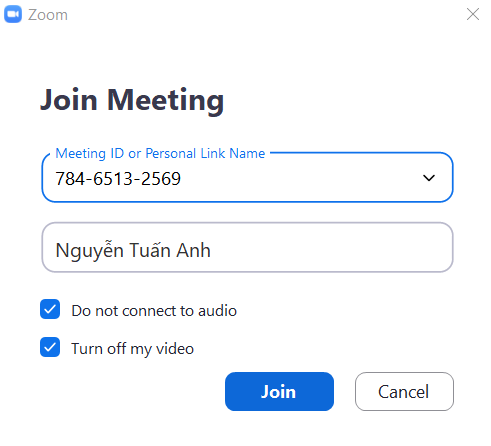
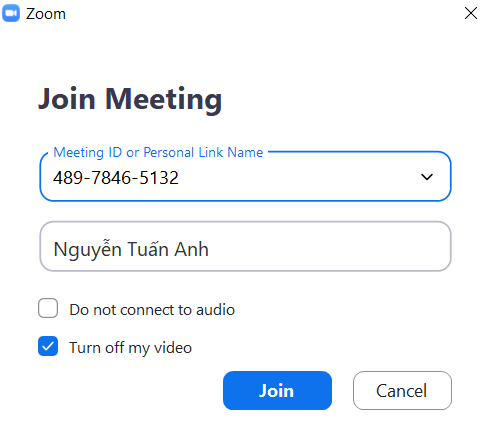
OK Binz

diff --git a/index.html b/index.html
@@ -1,167 +1,60 @@
 <!DOCTYPE html>
-<!--
-	ustora by freshdesignweb.com
-	Twitter: https://twitter.com/freshdesignweb
-	URL: https://www.freshdesignweb.com/ustora/
--->
 <html lang="en">
-  <head>
-    <meta charset="utf-8">
-    <meta http-equiv="X-UA-Compatible" content="IE=edge">
-    <meta name="viewport" content="width=device-width, initial-scale=1">
-    <title>TA7 Entertaiment</title>
-    
-    <!-- Google Fonts -->
-    <link href='http://fonts.googleapis.com/css?family=Titillium+Web:400,200,300,700,600' rel='stylesheet' type='text/css'>
-    <link href='http://fonts.googleapis.com/css?family=Roboto+Condensed:400,700,300' rel='stylesheet' type='text/css'>
-    <link href='http://fonts.googleapis.com/css?family=Raleway:400,100' rel='stylesheet' type='text/css'>
-    
-    <!-- Bootstrap -->
-    <!-- <link rel="stylesheet" href="css/bootstrap.min.css"> -->
-    <link rel="stylesheet" href="https://maxcdn.bootstrapcdn.com/bootstrap/4.0.0/css/bootstrap.min.css" integrity="sha384-Gn5384xqQ1aoWXA+058RXPxPg6fy4IWvTNh0E263XmFcJlSAwiGgFAW/dAiS6JXm" crossorigin="anonymous">
-    
+<head>
+	<meta charset="UTF-8">
+	<meta name="viewport" content="width=device-width, initial-scale=1">
+	<title>Home</title>
+    <link rel="stylesheet" href="css/bootstrap.min.css">
     <!-- Font Awesome -->
     <link rel="stylesheet" href="css/font-awesome.min.css">
-    
-    <!-- Custom CSS -->
-    <link rel="stylesheet" href="css/owl.carousel.css">
-    <link rel="stylesheet" href="style.css">
-    <link rel="stylesheet" href="css/responsive.css">
     <link rel="stylesheet" href="css/1.css">
-
-    <!-- HTML5 shim and Respond.js for IE8 support of HTML5 elements and media queries -->
-    <!-- WARNING: Respond.js doesn't work if you view the page via file:// -->
-    <!--[if lt IE 9]>
-      <script src="https://oss.maxcdn.com/html5shiv/3.7.2/html5shiv.min.js"></script>
-      <script src="https://oss.maxcdn.com/respond/1.4.2/respond.min.js"></script>
-    <![endif]-->
-  </head>
-  <body>
-   
-    <div class="container text-center mb-3 pb-3 pt-3">
-        <h1>Hướng dẫn cài đặt zoom phục vụ học tập</h1>
-    </div>
-    
-    <div class="container">
-        <div class="buoc1 mb-3">
-            <strong>* Khởi động ứng dụng Zoom</strong> 
-            <br><br>
-            <img src="img/1.png" alt="">
-            <p class="text-center"><small>Hình 1: Giao diện ứng dụng Zoom</small></p>
-        </div>
-        <div class="pt-3">
-            <p>Ở đây chúng ta có 2 lựa chọn:</p>
-            <p><strong>Join a Meeting: </strong>Tham gia lớp học mà không cần đăng nhập.</p>
-            <p><strong>Sign In: </strong>Bắt buộc phải đăng nhập thì mới tham gia được lớp học.</p>
-            <p>Chúng ta có thể làm theo 1 trong 2 cách trên,để đơn giản chúng tôi khuyến khích phụ huynh và học sinh sử dụng cách 1.</p>
-        </div>
-
-        <div class="cach1 pt-2">
-            <h3>Cách 1: Join a Meeting (Đơn giản,khuyến khích sử dụng)</h4>
-            <p>Sau khi chọn <strong>Join a Meeting </strong>chúng ta sẽ thấy giao diện như sau</p>
-            <img src="img/2.png" alt="">
-            <p class="text-center"><small>Hình 2: Giao diện Join a Meeting</small></p>
-            <p><strong>Trong đó: </strong></p>
-            <p class="lui">1: Điền ID hoặc Link do giáo viên cung cấp (Bắt buộc).</p>
-            <p class="lui">2: Điền họ tên học sinh tham gia lớp học (Bắt buộc).</p>
-            <p class="lui">3: Tích vào tất cả các ô trống như trong hình (Bắt buộc).</p>
-
-            <div class="buoc1 mb-3">
-                <p><strong>Bước 1: </strong>Điền ID,tên học sinh và tích vào các ô trống như hình trên,sau đó bấm <strong>Join.</strong></p>
-                <img src="img/2.png" alt="">
-                <p class="text-center"><small>Hình 3: Click Join</small></p>
-            </div>
-            <div class="buoc2 mb-3">
-                <p><strong>Bước 2: </strong>Sau khi click "Join" sẽ xuất hiện giao diện như sau,phụ huynh/học sinh điền mật khẩu được giáo viên cung cấp sau đó ấn <strong>Join Meeting.</strong></p>
-                <img src="img/3.png" alt="">
-                <p class="text-center"><small>Hình 4: Điền mật khẩu sau đó bấm Join Meeting</small></p>
-            </div>
-            <div class="mb-3">
-                <p>Sau khi bấm <strong>Join Meeting</strong> hệ thống sẽ xuất hiện giao diện như sau.Đây là giao diện học sinh đang đợi giáo viên cho phép vào lớp</p>
-                <img src="img/4.png" alt="">
-                <p class="text-center"><small>Hình 5: Học sinh đợi giáo viên cho phép vào lớp</small></p>
-            </div>
-            <div class="mb-3">
-                <p>Sau khi được giáo viên chấp nhận tham gia lớp học,hệ thống sẽ tự động kết nối đưa học sinh tham gia lớp học.Thời gian nhanh hay chậm phụ thuộc vào tốc độ mạng của học sinh.</p>
-                <img src="img/5.png" alt="">
-                <p class="text-center"><small>Hình 6: Kết nối với lớp học</small></p>
-            </div>
-            <div class="buoc3 mb-3">
-                <p><strong>Bước 3: </strong>Sau đó giao diện xuất hiện như <strong>Hình 7.</strong>Phụ huynh/học sinh bấm vào <strong>Join with Computer Audio</strong> để tiến hành bật âm thanh nghe được giáo viên giảng.</p>
-                <img src="img/6.png" alt="">
-                <p class="text-center"><small>Hình 7: Bật âm thanh</small></p>
-            </div>
-            <div class="mb-3">
-                <p>Học sinh đã tham gia lớp học thành công.</p>
-                <img class="full" src="img/7.png" alt="">
-                <p class="text-center"><small>Hình 8: Giao diện lớp học</small></p>
-            </div>
-            <div class="buoc4 mb-3">
-                <p><strong>Bước 4: </strong>Kiểm tra mic và camera.Phụ huynh/học sinh cần đảm bảo <strong>mic và camera đã được tắt</strong> như hình.</p>
-                <img class="full" src="img/7.png" alt="">
-                <p class="text-center"><small>Hình 9: Đảm bảo mic và camera đã tắt</small></p>
-            </div>
-            <div class="mb-3">
-                <h4>Như vậy học sinh đã tham gia lớp học bằng cách 1 thành công !</h4>
-            </div>
-        </div> <!-- end cach1 -->
-
-        <div class="cach2 pt-3">
-            <h3>Cách 2: Sign In (Phức tạp hơn cách 1)</h4>
-            <p>Sau khi chọn <strong>Sign In </strong>chúng ta sẽ thấy giao diện như sau:</p>
-            <img src="img/12.png" alt="">
-            <p class="text-center"><small>Hình 10: Giao diện Sign In</small></p>
-            <p>Ở đây chúng ta có rất nhiều cách để đăng nhập,trong bài viết này chúng tôi sẽ hướng dẫn phụ huynh/học sinh đăng nhập bằng tài khoản <strong>Google.</strong></p>
-
-            <div class="buoc1 mb-3">
-                <p>
-                    <strong>Bước 1: </strong>Click vào ô <strong>Sign In with Google.</strong>
-                </p>
-                <img src="img/12.png" alt="">
-                <p class="text-center"><small>Hình 10: Click Sign In with Google</small></p>
-            </div>
-
-            <div class="mb-3">
-                <p>Sau đó hệ thống sẽ tự động mở trang đăng nhập tài khoản Google.Phụ huynh/học sinh đăng nhập tài khoản google theo yêu cầu.</p>
-                <img src="img/13.png" alt="">
-                <p class="text-center"><small>Hình 11: Đăng nhập tài khoản Google</small></p>
-            </div>
-
-            <div class="buoc2 mb-3">
-                <p><strong>Bước 2: </strong>Sau khi đăng nhập thành công tài khoản Google tiếp tục ấn vào <strong>Mở Zoom</strong> hoặc <strong>Launch Zoom</strong> như hình.</p>
-                <img class="full" src="img/14.png" alt="">
-                <p class="text-center"><small>Hình 12: Mở zoom</small></p>
-            </div>
-
-            <div class="mb-3">
-                <p>Hệ thống sẽ mất một thời gian để kết nối.Nhanh hay chậm phụ thuộc vào tốc độ mạng của phụ huynh/học sinh.</p>
-                <img src="img/15.png" alt="">
-                <p class="text-center"><small>Hình 13: Connecting...</small></p>
-            </div>
-
-            <div class="buoc3 mb-3">
-                <p><strong>Bước 3: </strong>Sau khi đăng nhập thành công,giao diện sẽ như <strong>Hình 14.</strong>Phụ huynh/học sinh chọn <strong>Join </strong>để tham gia lớp học.</p>
-                <img src="img/16.png" alt="">
-                <p class="text-center"><small>Hình 14: Chọn Join để vào lớp</small></p>
-            </div>
-
-            <div class="buoc4 mb-3">
-                <p><strong>Bước 4: </strong>Phụ huynh/học sinh điền ID giáo viên cung cấp và họ tên học sinh sau đó chọn <strong>Join </strong>để tham gia lớp học.</p>
-                <p><strong>Chú ý: </strong>Tích chọn vào 2 ô như <strong>Hình 15.</strong></p>
-                <img src="img/17.png" alt="">
-                <p class="text-center"><small>Hình 15: Điền thông tin sau đó chọn Join</small></p>
-            </div>
-
-            <div class="buoc5 mb-3">
-                <p><strong>Bước 5: </strong>Lặp lại như <strong>Bước 2 </strong>của <strong>Cách 1.</strong></p>
-            </div>
-
-            <div class="mb-3 pb-3">
-                <h4>Như vậy học sinh đã tham gia lớp học bằng cách 2 thành công !</h4>
-            </div>
-
-        </div>
-    </div> <!-- end container -->
-        
-  </body>
+    <style type="text/css">
+        body
+        {
+        	width: 100%;
+        	height: 100%;
+            background-image: url(77.jpg);
+            background-size: cover; 
+        }
+        .noidung
+        {
+        	text-align: center;
+        }
+        a.btn
+        {
+        	display: inline-block;
+        	font-size: 20px;
+        	padding: 19px;
+        	margin: 0 30px;
+        	width: 166px;
+        }
+        .tieude
+        {
+			font-size: 66px;
+			color: white;
+			padding-top: 187px;
+			padding-bottom: 50px;
+        }
+        @media screen and (max-width: 480px) 
+        {
+			body
+			{
+				background: url(77.jpg) no-repeat;
+			}
+			a.btn
+			{
+				margin: 15px 33px;
+			}
+		}
+    </style>
+</head>
+<body>
+	<div class="noidung">
+		<h2 class="tieude">Bạn là ?</h2>
+		<div>
+			<a href="hocsinh.html" class="btn btn-success">Học sinh</a>
+			<a href="" class="btn btn-danger">Giáo viên</a>
+		</div>
+	</div>
+</body>
 </html>

diff --git a/hocsinh.html b/hocsinh.html
@@ -1,0 +1,167 @@
+<!DOCTYPE html>
+<!--
+	ustora by freshdesignweb.com
+	Twitter: https://twitter.com/freshdesignweb
+	URL: https://www.freshdesignweb.com/ustora/
+-->
+<html lang="en">
+  <head>
+    <meta charset="utf-8">
+    <meta http-equiv="X-UA-Compatible" content="IE=edge">
+    <meta name="viewport" content="width=device-width, initial-scale=1">
+    <title>TA7 Entertaiment</title>
+    
+    <!-- Google Fonts -->
+    <link href='http://fonts.googleapis.com/css?family=Titillium+Web:400,200,300,700,600' rel='stylesheet' type='text/css'>
+    <link href='http://fonts.googleapis.com/css?family=Roboto+Condensed:400,700,300' rel='stylesheet' type='text/css'>
+    <link href='http://fonts.googleapis.com/css?family=Raleway:400,100' rel='stylesheet' type='text/css'>
+    
+    <!-- Bootstrap -->
+    <!-- <link rel="stylesheet" href="css/bootstrap.min.css"> -->
+    <link rel="stylesheet" href="https://maxcdn.bootstrapcdn.com/bootstrap/4.0.0/css/bootstrap.min.css" integrity="sha384-Gn5384xqQ1aoWXA+058RXPxPg6fy4IWvTNh0E263XmFcJlSAwiGgFAW/dAiS6JXm" crossorigin="anonymous">
+    
+    <!-- Font Awesome -->
+    <link rel="stylesheet" href="css/font-awesome.min.css">
+    
+    <!-- Custom CSS -->
+    <link rel="stylesheet" href="css/owl.carousel.css">
+    <link rel="stylesheet" href="style.css">
+    <link rel="stylesheet" href="css/responsive.css">
+    <link rel="stylesheet" href="css/1.css">
+
+    <!-- HTML5 shim and Respond.js for IE8 support of HTML5 elements and media queries -->
+    <!-- WARNING: Respond.js doesn't work if you view the page via file:// -->
+    <!--[if lt IE 9]>
+      <script src="https://oss.maxcdn.com/html5shiv/3.7.2/html5shiv.min.js"></script>
+      <script src="https://oss.maxcdn.com/respond/1.4.2/respond.min.js"></script>
+    <![endif]-->
+  </head>
+  <body>
+   
+    <div class="container text-center mb-3 pb-3 pt-3">
+        <h1>Hướng dẫn cài đặt zoom phục vụ học tập</h1>
+    </div>
+    
+    <div class="container">
+        <div class="buoc1 mb-3">
+            <strong>* Khởi động ứng dụng Zoom</strong> 
+            <br><br>
+            <img src="img/1.png" alt="">
+            <p class="text-center"><small>Hình 1: Giao diện ứng dụng Zoom</small></p>
+        </div>
+        <div class="pt-3">
+            <p>Ở đây chúng ta có 2 lựa chọn:</p>
+            <p><strong>Join a Meeting: </strong>Tham gia lớp học mà không cần đăng nhập.</p>
+            <p><strong>Sign In: </strong>Bắt buộc phải đăng nhập thì mới tham gia được lớp học.</p>
+            <p>Chúng ta có thể làm theo 1 trong 2 cách trên,để đơn giản chúng tôi khuyến khích phụ huynh và học sinh sử dụng cách 1.</p>
+        </div>
+
+        <div class="cach1 pt-2">
+            <h3>Cách 1: Join a Meeting (Đơn giản,khuyến khích sử dụng)</h4>
+            <p>Sau khi chọn <strong>Join a Meeting </strong>chúng ta sẽ thấy giao diện như sau</p>
+            <img src="img/2.png" alt="">
+            <p class="text-center"><small>Hình 2: Giao diện Join a Meeting</small></p>
+            <p><strong>Trong đó: </strong></p>
+            <p class="lui">1: ID hoặc Link do giáo viên cung cấp (Bắt buộc).</p>
+            <p class="lui">2: Họ tên học sinh tham gia lớp học (Bắt buộc).</p>
+            <p class="lui">3: Tích vào các ô trống như trong <strong>Hình 3</strong> (Bắt buộc).</p>
+
+            <div class="buoc1 mb-3">
+                <p><strong>Bước 1: </strong>Điền ID,tên học sinh và tích vào các ô trống như hình trên,sau đó bấm <strong>Join.</strong></p>
+                <img src="img/2-1.png" alt="">
+                <p class="text-center"><small>Hình 3: Click Join</small></p>
+            </div>
+            <div class="buoc2 mb-3">
+                <p><strong>Bước 2: </strong>Sau khi click "Join" sẽ xuất hiện giao diện như sau,phụ huynh/học sinh điền mật khẩu được giáo viên cung cấp sau đó ấn <strong>Join Meeting.</strong></p>
+                <img src="img/3.png" alt="">
+                <p class="text-center"><small>Hình 4: Điền mật khẩu sau đó bấm Join Meeting</small></p>
+            </div>
+            <div class="mb-3">
+                <p>Sau khi bấm <strong>Join Meeting</strong> hệ thống sẽ xuất hiện giao diện như sau.Đây là giao diện học sinh đang đợi giáo viên cho phép vào lớp.</p>
+                <img src="img/4.png" alt="">
+                <p class="text-center"><small>Hình 5: Học sinh đợi giáo viên cho phép vào lớp</small></p>
+            </div>
+            <div class="mb-3">
+                <p>Sau khi được giáo viên chấp nhận tham gia lớp học,hệ thống sẽ tự động kết nối đưa học sinh tham gia lớp học.Thời gian nhanh hay chậm phụ thuộc vào tốc độ mạng của học sinh.</p>
+                <img src="img/5.png" alt="">
+                <p class="text-center"><small>Hình 6: Kết nối với lớp học</small></p>
+            </div>
+            <div class="buoc3 mb-3">
+                <p><strong>Bước 3: </strong>Sau đó giao diện xuất hiện như <strong>Hình 7.</strong>Phụ huynh/học sinh bấm vào <strong>Join with Computer Audio</strong> để tiến hành bật âm thanh nghe được giáo viên giảng.</p>
+                <img src="img/6.png" alt="">
+                <p class="text-center"><small>Hình 7: Bật âm thanh</small></p>
+            </div>
+            <div class="mb-3">
+                <p>Học sinh đã tham gia lớp học thành công.</p>
+                <img class="full" src="img/7.png" alt="">
+                <p class="text-center"><small>Hình 8: Giao diện lớp học</small></p>
+            </div>
+            <div class="buoc4 mb-3">
+                <p><strong>Bước 4: </strong>Kiểm tra mic và camera.Phụ huynh/học sinh cần đảm bảo <strong>mic và camera đã được tắt</strong> như hình.</p>
+                <img class="full" src="img/7-1.png" alt="">
+                <p class="text-center"><small>Hình 9: Đảm bảo mic và camera đã tắt</small></p>
+            </div>
+            <div class="mb-3">
+                <h4>Như vậy học sinh đã tham gia lớp học bằng cách 1 thành công !</h4>
+            </div>
+        </div> <!-- end cach1 -->
+
+        <div class="cach2 pt-3">
+            <h3>Cách 2: Sign In (Phức tạp hơn cách 1)</h4>
+            <p>Sau khi chọn <strong>Sign In </strong>chúng ta sẽ thấy giao diện như sau:</p>
+            <img src="img/12.png" alt="">
+            <p class="text-center"><small>Hình 10: Giao diện Sign In</small></p>
+            <p>Ở đây chúng ta có rất nhiều cách để đăng nhập,trong bài viết này chúng tôi sẽ hướng dẫn phụ huynh/học sinh đăng nhập bằng tài khoản <strong>Google.</strong></p>
+
+            <div class="buoc1 mb-3">
+                <p>
+                    <strong>Bước 1: </strong>Click vào ô <strong>Sign In with Google.</strong>
+                </p>
+                <img src="img/12-1.png" alt="">
+                <p class="text-center"><small>Hình 10: Click Sign In with Google</small></p>
+            </div>
+
+            <div class="mb-3">
+                <p>Sau đó hệ thống sẽ tự động mở trang đăng nhập tài khoản Google.Phụ huynh/học sinh đăng nhập tài khoản google theo yêu cầu.</p>
+                <img src="img/13.png" alt="">
+                <p class="text-center"><small>Hình 11: Đăng nhập tài khoản Google</small></p>
+            </div>
+
+            <div class="buoc2 mb-3">
+                <p><strong>Bước 2: </strong>Sau khi đăng nhập thành công tài khoản Google tiếp tục ấn vào <strong>Mở Zoom</strong> hoặc <strong>Launch Zoom</strong> như hình.</p>
+                <img class="full" src="img/14.png" alt="">
+                <p class="text-center"><small>Hình 12: Mở zoom</small></p>
+            </div>
+
+            <div class="mb-3">
+                <p>Hệ thống sẽ mất một thời gian để kết nối.Nhanh hay chậm phụ thuộc vào tốc độ mạng của phụ huynh/học sinh.</p>
+                <img src="img/15.png" alt="">
+                <p class="text-center"><small>Hình 13: Connecting...</small></p>
+            </div>
+
+            <div class="buoc3 mb-3">
+                <p><strong>Bước 3: </strong>Sau khi đăng nhập thành công,giao diện sẽ như <strong>Hình 14.</strong>Phụ huynh/học sinh chọn <strong>Join </strong>để tham gia lớp học.</p>
+                <img src="img/16.png" alt="">
+                <p class="text-center"><small>Hình 14: Chọn Join để vào lớp</small></p>
+            </div>
+
+            <div class="buoc4 mb-3">
+                <p><strong>Bước 4: </strong>Phụ huynh/học sinh điền ID giáo viên cung cấp và họ tên học sinh sau đó chọn <strong>Join </strong>để tham gia lớp học.</p>
+                <p><strong>Chú ý: </strong>Tích chọn vào <strong>Turn off my video</strong> như <strong>Hình 15.</strong></p>
+                <img src="img/17.png" alt="">
+                <p class="text-center"><small>Hình 15: Điền thông tin sau đó chọn Join</small></p>
+            </div>
+
+            <div class="buoc5 mb-3">
+                <p><strong>Bước 5: </strong>Lặp lại từ <strong>Bước 2 </strong>của <strong>Cách 1.</strong></p>
+            </div>
+
+            <div class="mb-3 pb-3">
+                <h4>Như vậy học sinh đã tham gia lớp học bằng cách 2 thành công !</h4>
+            </div>
+
+        </div>
+    </div> <!-- end container -->
+        
+  </body>
+</html>
